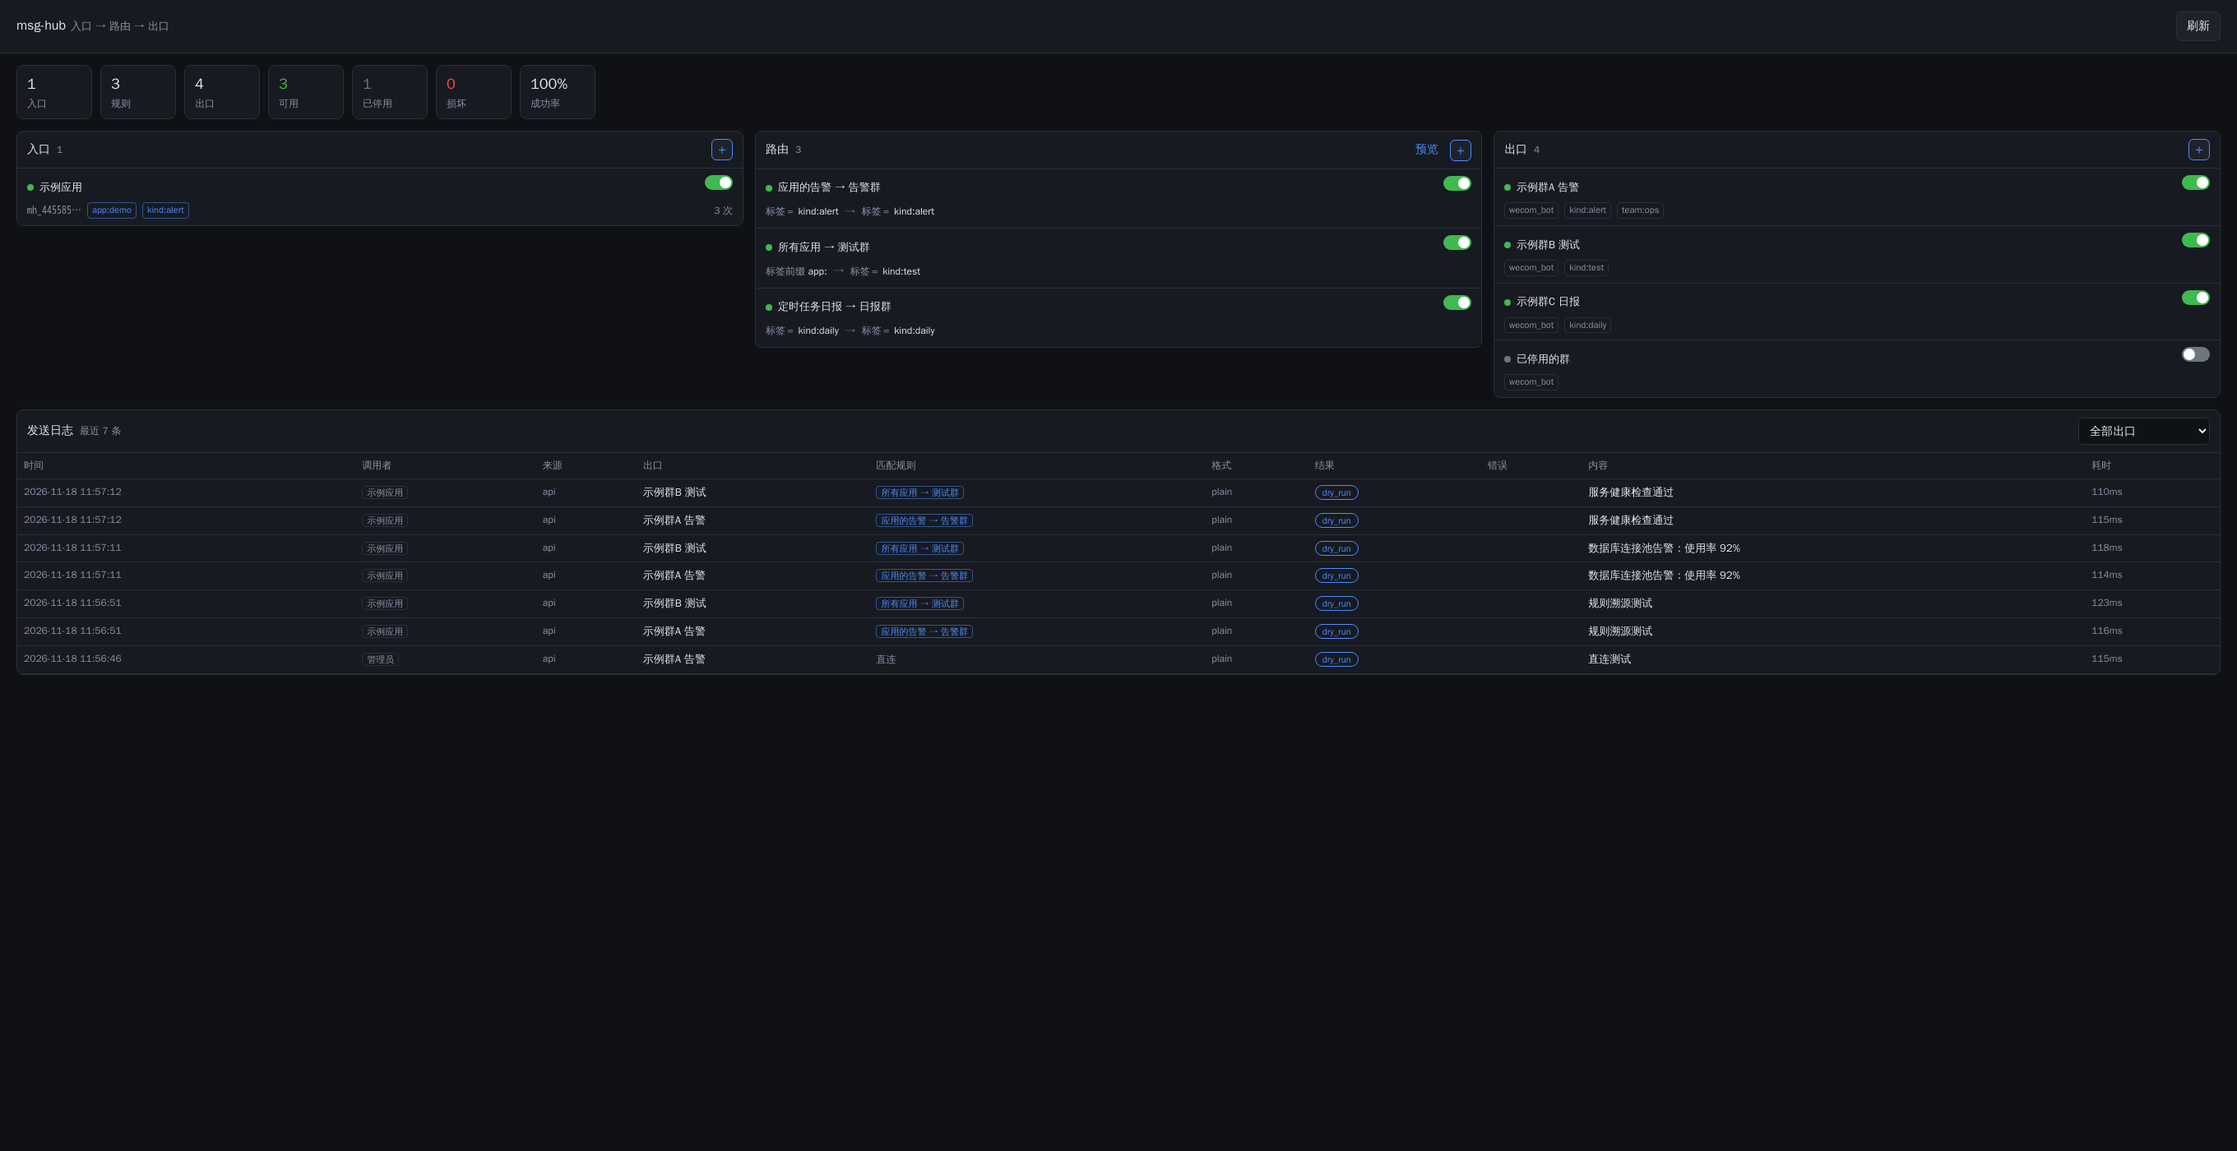
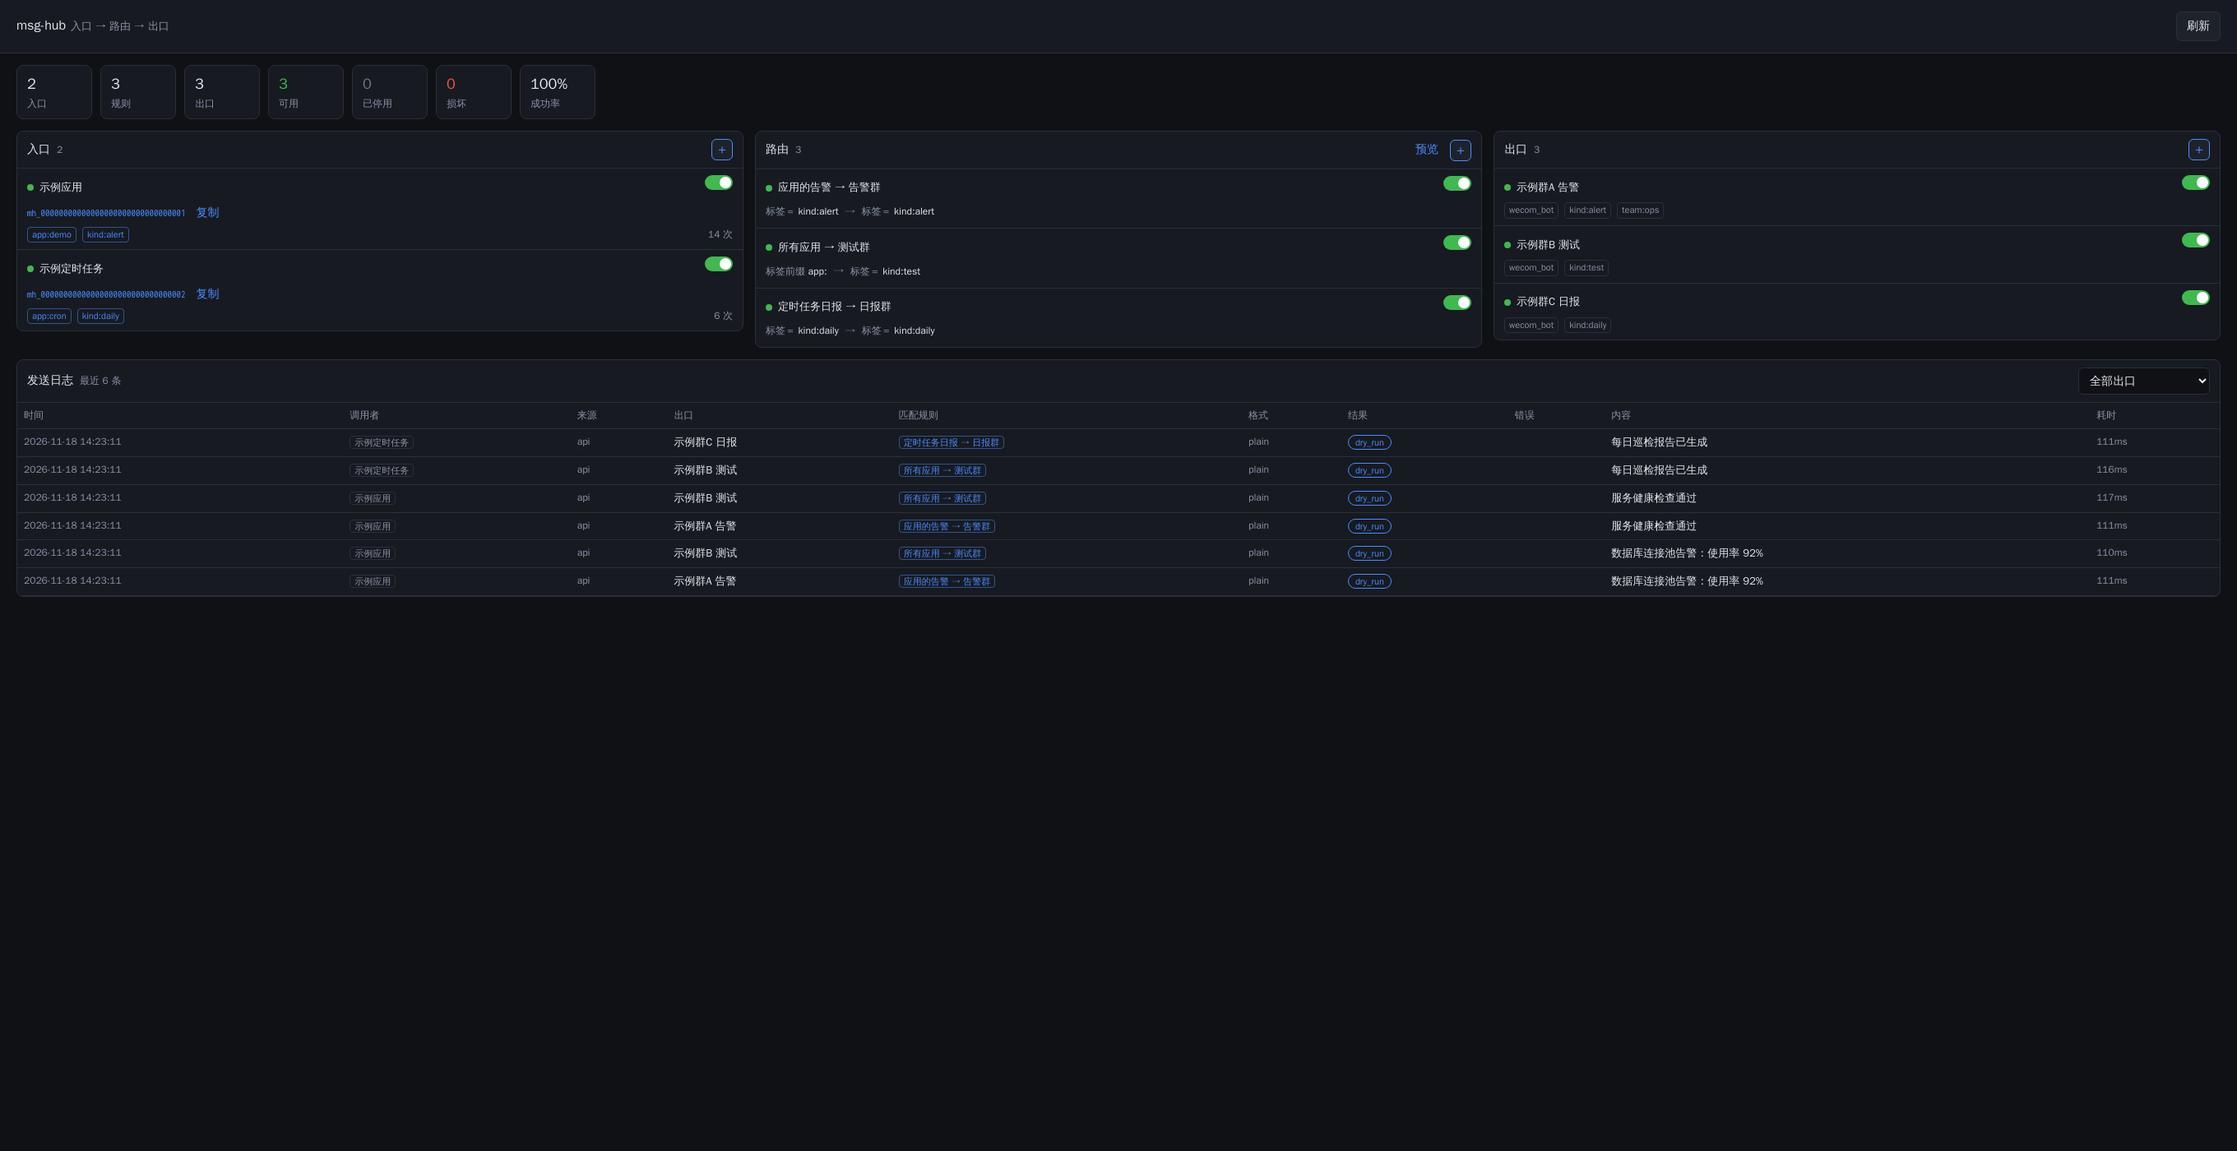
feat(entry): token 明文随时可查，不再「只显示一次」
原来 token 只在创建响应里返回一次明文，之后只有前缀。丢了的唯一出路是
删入口重建——会新生成一把 token，线上调用方配置得跟着改，等于自己制造
一次故障。改成管理面随时可查。

改动：

- `Entry.to_public()` 直接带 `secret`（管理面视图）；新增 `Entry.to_brief()`
  给「嵌进其他响应」的场景用（id/name/prefix/tags/enabled，不含明文）
- `create_entry` 不再单独塞 secret，统一走 to_public
- `route_preview` 里的 entry 改用 to_brief，避免明文扩散到无关响应
- dashboard 入口列表直接显示完整 token（等宽、可直接选中）+ 复制按钮，
  点复制不会误触「打开编辑弹窗」（bindRowClick 里统一排除 data-copy）
- 入口编辑弹窗里也显示完整 token + 复制

边界没有放宽：

- 入口相关的接口仍然**只对管理员开放**，入口 token 自己 GET /api/entries
  是 403（新增测试覆盖）
- 审计日志仍然只记前缀，不记明文
- 出口凭据（webhook_key / SMTP 密码）仍然打码，不受影响

安全取舍（已写进 README）：现在防护只剩 0600 + 管理员鉴权，能打开 dashboard
的人就能看到全部 token；截图/录屏会带出去。

测试：把「列表不含明文」改成「三次读取都一致」，另加「入口 token 查不到明文」。
123 个测试通过。

diff --git a/src/msg_hub/web/index.html b/src/msg_hub/web/index.html
@@ -76,6 +76,11 @@
   }
   .tag.hl { color: var(--accent); border-color: rgba(76,141,255,.5); }
   .tag.warn { color: var(--warn); border-color: rgba(210,153,34,.5); }
+  .token {
+    font-family: ui-monospace, SFMono-Regular, Menlo, monospace;
+    font-size: 11px; color: var(--accent); user-select: all;
+    max-width: 100%; overflow: hidden; text-overflow: ellipsis; white-space: nowrap;
+  }
   .cond { font-size: 12px; color: var(--muted); }
   .cond b { color: var(--fg); font-weight: 500; }
   .arrow { color: var(--off); }
@@ -213,9 +218,13 @@
       <label><span class="lb">名称 <b>*</b></span><input type="text" id="e-name" placeholder="如：pibox-alert"></label>
       <label><span class="lb">标签</span><input type="text" id="e-tags" placeholder="逗号分隔，如 app:pibox,kind:alert">
         <div class="hint">规则靠这些标签决定这把 token 能发到哪些出口</div></label>
-      <div id="e-prefix-box" class="hidden">
-        <div class="sec">凭据</div>
-        <div class="muted">token 前缀：<code id="e-prefix"></code>（明文只在创建时显示一次，无法查看）</div>
+      <div id="e-token-box" class="hidden">
+        <div class="sec">Token</div>
+        <div class="row">
+          <code class="token grow" id="e-token" style="word-break:break-all"></code>
+          <button class="link" id="e-copy">复制</button>
+        </div>
+        <div class="hint">随时可查，不用重建入口。任何能打开本页的人都能看到，注意截图/录屏。</div>
       </div>
       <label class="checkline" id="e-enabled-box" style="margin-top:12px">
         <span class="switch"><input type="checkbox" id="e-enabled" checked><span></span></span>
@@ -452,7 +461,10 @@ function renderEntries() {
         </label>
       </div>
       <div class="row sub">
-        <code class="muted">${esc(e.prefix)}…</code>
+        <code class="token" title="点击复制">${esc(e.secret)}</code>
+        <button class="link copy" data-copy="${esc(e.secret)}" title="复制 token">复制</button>
+      </div>
+      <div class="row sub">
         ${tagList(e.tags, "hl")}
         <span class="grow"></span>
         <span class="muted">${e.usage_count || 0} 次</span>
@@ -590,8 +602,8 @@ function openEntryModal(entry) {
   $("e-name").value = entry ? entry.name : "";
   $("e-tags").value = entry ? (entry.tags || []).join(",") : "";
   $("e-enabled").checked = entry ? entry.enabled : true;
-  $("e-prefix").textContent = entry ? entry.prefix + "…" : "";
-  $("e-prefix-box").classList.toggle("hidden", !entry);
+  $("e-token").textContent = entry ? entry.secret : "";
+  $("e-token-box").classList.toggle("hidden", !entry);
   $("e-enabled-box").classList.toggle("hidden", !entry);
   $("e-delete").classList.toggle("hidden", !entry);
   $("e-submit").textContent = entry ? "保存" : "生成 Token";
@@ -946,7 +958,8 @@ $("log-filter").onchange = () => { LOG_FILTER = $("log-filter").value; renderLog
 // 点击行 → 弹出编辑（点开关不触发）
 function bindRowClick(listId, lookup, opener) {
   $(listId).onclick = (event) => {
-    if (event.target.closest("label.switch")) return;
+    // 点开关 / 点复制 都不算「打开编辑」
+    if (event.target.closest("label.switch, [data-copy]")) return;
     const item = event.target.closest("li.item");
     if (!item) return;
     const id = Number(Object.values(item.dataset)[0]);
@@ -965,6 +978,22 @@ async function toggle(kind, id, enabled) {
     await refresh();
   } catch (err) { toast(err.message, true); }
 }
+
+async function copyText(value) {
+  try {
+    await navigator.clipboard.writeText(value);
+    toast("token 已复制到剪贴板");
+  } catch (_) {
+    toast("复制失败，请手动选中复制", true);
+  }
+}
+$("e-copy").onclick = () => copyText($("e-token").textContent);
+
+$("list-entries").addEventListener("click", (event) => {
+  const copy = event.target.closest("[data-copy]");
+  if (!copy) return;
+  copyText(copy.dataset.copy);
+});
 
 $("list-entries").addEventListener("change", (event) => {
   const input = event.target.closest("input[data-entry-toggle]");

diff --git a/tests/test_auth_matrix.py b/tests/test_auth_matrix.py
@@ -79,19 +79,26 @@ def routed_entry(client: TestClient, name: str = "监控平台") -> dict:
 
 
 # ── 入口生命周期 ──────────────────────────────────────────
-def test_create_entry_returns_plaintext_once(cfg):
+def test_entry_secret_is_always_readable(cfg):
+    """token 不是「只显示一次」：列表和详情随时能拿回明文。"""
     with make_client(cfg) as client:
         entry = make_entry(client, tags=["app:pibox"])
         assert entry["secret"].startswith("mh_")
         assert entry["prefix"] == entry["secret"][:9]
         assert entry["tags"] == ["app:pibox"]
 
-        # 后续列表不再给明文
         listed = client.get("/api/entries", headers=admin()).json()["entries"]
         assert len(listed) == 1
-        assert "secret" not in listed[0]
-        assert listed[0]["prefix"] == entry["prefix"]
+        assert listed[0]["secret"] == entry["secret"]
         assert listed[0]["tags"] == ["app:pibox"]
+
+        detail = client.get(f"/api/entries/{entry['id']}", headers=admin()).json()["entry"]
+        assert detail["secret"] == entry["secret"]
+
+        # 改了标签再读，token 不变
+        client.patch(f"/api/entries/{entry['id']}", json={"tags": ["app:x"]}, headers=admin())
+        again = client.get(f"/api/entries/{entry['id']}", headers=admin()).json()["entry"]
+        assert again["secret"] == entry["secret"]
 
 
 def test_list_entries_empty_by_default(cfg):
@@ -245,6 +252,15 @@ def test_admin_without_channel_also_uses_route(cfg):
         make_rule(client, name="所有入口")
         ok_response = client.post("/api/send", json={"text": "hi", "dry_run": True}, headers=admin())
         assert ok_response.status_code == 200
+
+
+def test_entry_cannot_read_its_own_secret(cfg):
+    """明文只对管理员开放：入口 token 自己删不掉、也查不到明文。"""
+    with make_client(cfg) as client:
+        entry = make_entry(client)
+        headers = bearer(entry["secret"])
+        assert client.get("/api/entries", headers=headers).status_code == 403
+        assert client.get(f"/api/entries/{entry['id']}", headers=headers).status_code == 403
 
 
 def test_unknown_bearer_is_unauthorized(cfg):

diff --git a/src/msg_hub/models.py b/src/msg_hub/models.py
@@ -193,8 +193,14 @@ ENTRY_BYTES = 16  # 32 个 hex 字符
 class Entry:
     """一个调用入口 = 一把 token + 一组标签（明文存储）。
 
-    明文存储是有意选择：方便随时复制，与 webhook_key 同等待遇。
-    防护靠 0600 权限 + 接口返回时打码（只露前缀），日志也只记前缀。
+    明文存储 + 明文回显是有意选择：token 随时要拿给调用方配置，只显示一次
+    很容易丢（丢了只能删入口重建，会把线上调用打断）。防护只剩三层：
+
+      1. state.json 权限 0600
+      2. 入口相关的接口全部只对管理员开放（入口 token 看不到自己的明文）
+      3. 审计日志只记前缀，不记明文
+
+    代价：能打开 dashboard 的人就能看到所有 token 明文（截图/录屏会带出去）。
     """
 
     id: int
@@ -232,10 +238,15 @@ class Entry:
         }
 
     def to_public(self) -> dict[str, Any]:
-        """接口返回用：不包含完整 secret。"""
+        """管理面返回用：**包含明文 secret**（管理员随时可查）。
+
+        只用于 /api/entries 系列与 dashboard；嵌入到其他响应里请改用 to_brief()，
+        避免 token 在无关的地方扩散。
+        """
         return {
             "id": self.id,
             "name": self.name,
+            "secret": self.secret,
             "prefix": self.prefix,
             "masked": self.masked,
             "tags": self.tags,
@@ -243,6 +254,16 @@ class Entry:
             "created_at": self.created_at,
             "last_used_at": self.last_used_at,
             "usage_count": self.usage_count,
+        }
+
+    def to_brief(self) -> dict[str, Any]:
+        """嵌进其他响应时用：不含明文，只留身份与标签。"""
+        return {
+            "id": self.id,
+            "name": self.name,
+            "prefix": self.prefix,
+            "tags": self.tags,
+            "enabled": self.enabled,
         }
 
     @classmethod

diff --git a/src/msg_hub/service.py b/src/msg_hub/service.py
@@ -234,14 +234,12 @@ class Hub:
         tags: list[str] | str | None = None,
         enabled: bool = True,
     ) -> dict[str, Any]:
-        """新建入口。返回值**包含明文 token**，仅此一次。"""
+        """新建入口。返回值包含明文 token（之后随时可在 entry_list 查看）。"""
         name = str(name or "").strip()
         if not name:
             raise HubError("invalid_argument", "入口名称不能为空")
         entry = self.store.insert_entry(name, tags=normalize_tags(tags), enabled=enabled)
-        data = entry.to_public()
-        data["secret"] = entry.secret  # 只在这里出现一次
-        return data
+        return entry.to_public()
 
     def update_entry(
         self,
@@ -351,7 +349,7 @@ class Hub:
         rules = self.store.rules()
         selection = routing.select(rules, entry, channels)
         return {
-            "entry": entry.to_public() if entry else None,
+            "entry": entry.to_brief() if entry else None,
             "outbounds": [self._describe(channel) for channel in selection.channels],
             "matched_rules": selection.matched_rules,
             "trace": routing.explain(rules, entry, channels),
@@ -606,7 +604,7 @@ class Hub:
                 raise HubError(
                     "no_route",
                     self._no_route_message(identity, entry, selection),
-                    entry=entry.to_public() if entry else {"type": "admin"},
+                    entry=entry.to_brief() if entry else {"type": "admin"},
                     total_rules=selection.total_rules,
                     enabled_rules=selection.enabled_rules,
                     available_channels=[

diff --git a/src/msg_hub/tools.py b/src/msg_hub/tools.py
@@ -248,12 +248,7 @@ def _entry_create(
     tags: list[str] | str | None = None,
     enabled: bool = True,
 ) -> dict[str, Any]:
-    entry = hub.create_entry(name, tags=tags, enabled=enabled)
-    return {
-        "ok": True,
-        "entry": entry,
-        "notice": "token 明文只在本响应中出现一次，请立即保存；之后只能看到前缀。",
-    }
+    return {"ok": True, "entry": hub.create_entry(name, tags=tags, enabled=enabled)}
 
 
 def _entry_update(
@@ -396,7 +391,10 @@ TOOLS: tuple[ToolSpec, ...] = (
     ),
     ToolSpec(
         name="entry_list",
-        description="列出所有入口（持 token 的调用方）：id、名称、标签、是否启用、用量。不含明文 token。",
+        description=(
+            "列出所有入口（持 token 的调用方）：id、名称、标签、**明文 token**、是否启用、用量。"
+            "token 随时可查，丢了不用重建入口。"
+        ),
         params=(),
         handler=_entry_list,
         admin_only=True,
@@ -404,7 +402,7 @@ TOOLS: tuple[ToolSpec, ...] = (
     ToolSpec(
         name="entry_create",
         description=(
-            "新建入口并生成一把 token（明文只在本次响应返回一次）。"
+            "新建入口并生成一把 token（之后可随时用 entry_list 查回明文）。"
             "tags 决定能命中哪些路由规则，建议 key:value 形式（如 app:pibox、kind:alert）。"
         ),
         params=(

diff --git a/tests/test_store.py b/tests/test_store.py
@@ -132,11 +132,16 @@ def test_token_plaintext_is_stored(cfg):
     assert raw["entries"][0]["secret"] == token.secret
 
 
-def test_token_public_view_hides_secret(cfg):
+def test_entry_public_view_always_exposes_secret(cfg):
+    """token 随时可查：管理面视图直接带明文，丢了不用重建入口。"""
     store = Store(cfg)
     token = store.insert_entry("监控平台")
     public = token.to_public()
-    assert "secret" not in public
+    assert public["secret"] == token.secret
+    # 嵌进其他响应时用 to_brief，避免明文到处扩散
+    brief = token.to_brief()
+    assert "secret" not in brief
+    assert brief["prefix"] == token.prefix
     assert public["prefix"] == token.prefix
     assert public["masked"] == f"***{token.secret[-4:]}"
 

diff --git a/README.md b/README.md
@@ -122,7 +122,7 @@ curl -s -X POST localhost:8788/api/channels \
       }' | jq
 ```
 
-3. 建入口（拿到 token，明文只返回一次）：
+3. 建入口（token 随时可查，丢了不用重建）：
 
 ```bash
 curl -s -X POST localhost:8788/api/entries \
@@ -284,8 +284,8 @@ networks:
 
 | 工具 | 作用 |
 |---|---|
-| `entry_list` | 列出入口（id / 名称 / 标签 / 前缀 / 用量），不含明文 |
-| `entry_create` | 新建入口并生成 token（**明文只返回一次**） |
+| `entry_list` | 列出入口（id / 名称 / 标签 / **明文 token** / 用量） |
+| `entry_create` | 新建入口并生成 token |
 | `entry_update` | 改名称 / 标签 / 启停（不换 token） |
 | `entry_delete` | 删除（该 token 立即失效） |
 
@@ -350,8 +350,8 @@ kind:alert    kind:daily       team:ops    team:ea
 | PATCH | `/api/channels/{ref}` | 修改出口（含 `tags`） |
 | DELETE | `/api/channels/{ref}` | 删除出口 |
 | POST | `/api/channels/{ref}/test` | 测试（`{"dry_run": true}`；带 `settings`+`type` 可试未保存的配置） |
-| GET | `/api/entries` | 入口列表（不含明文） |
-| POST | `/api/entries` | 新建入口（**返回明文 token，仅一次**） |
+| GET | `/api/entries` | 入口列表（**含明文 token**，仅管理员） |
+| POST | `/api/entries` | 新建入口（返回明文 token） |
 | GET | `/api/entries/{ref}` | 入口详情 |
 | PATCH | `/api/entries/{ref}` | 改名称 / `tags` / 启停 |
 | DELETE | `/api/entries/{ref}` | 删除入口 |
@@ -369,7 +369,7 @@ kind:alert    kind:daily       team:ops    team:ea
 | 通道 | 凭据 | 配置位置 | 能干什么 |
 |---|---|---|---|
 | **管理面** | Basic `用户名 + 密码` | 环境变量，**强制必填** | 看板、出口/入口/规则增删改、**看日志**、路由预览、发消息 |
-| **调用面** | API Token（入口） | `state.json` 的 `entries[]`，**可选** | **只能发消息**，且**不能指定出口** |
+| **调用面** | API Token（入口） | `state.json` 的 `entries[]`，**可选** | **只能发消息**，且**不能指定出口**；明文可随时查（仅管理员） |
 
 管理员密码没配就拒绝启动；入口 token 是可选的第二条通道，**不建入口时管理员照常能发消息**，不会出现「无鉴权」状态。
 
@@ -392,7 +392,7 @@ kind:alert    kind:daily       team:ops    team:ea
 # 管理员（浏览器弹框用同一对凭据）
 curl -u "admin:$MSG_HUB_ADMIN_PASSWORD" localhost:8788/api/channels
 
-# 外部系统：建入口拿 token（明文只显示一次）
+# 外部系统：建入口拿 token（之后随时 GET /api/entries 能查回）
 curl -u "admin:$MSG_HUB_ADMIN_PASSWORD" -X POST localhost:8788/api/entries \
   -H 'Content-Type: application/json' -d '{"name":"监控平台","tags":["app:monitor"]}'
 # → {"ok":true,"entry":{"id":1,"prefix":"mh_2f8a1c","secret":"mh_2f8a1c…"}}
@@ -651,7 +651,9 @@ echo '{"settings":{"webhook_key":"xxx"},"message":{"text":"hello"}}' \
 
 - **HTTP 模式强制鉴权**：没配 `MSG_HUB_ADMIN_PASSWORD` 就拒绝启动（不是打个警告继续跑）；密码太短会给警告
 - **凭据文件权限 0600**，索引/日志同样 0600；`data/` 已在 `.gitignore`
-- 接口返回的凭据一律打码，审计日志只存消息前 100 字
+- 出口凭据（webhook_key / SMTP 密码）接口返回一律打码；**入口 token 则明文回显**
+  ——token 要反复拿给调用方配置，只显示一次容易丢（丢了只能删入口重建，会打断线上调用）。
+  代价是所有能打开 dashboard 的人都能看到全部 token，注意截图/录屏；审计日志仍只记前缀
 - `@所有人` 默认禁止，需在渠道 `options.allow_mention_all` 显式开启
 - 建议只在 127.0.0.1 或内网暴露；跨容器通过 compose 网络访问，不要开公网端口
 - 审计日志可回答"这条消息到底发没发"；审计写失败不会把已发出的消息变成失败（否则调用方重试会发两遍）
